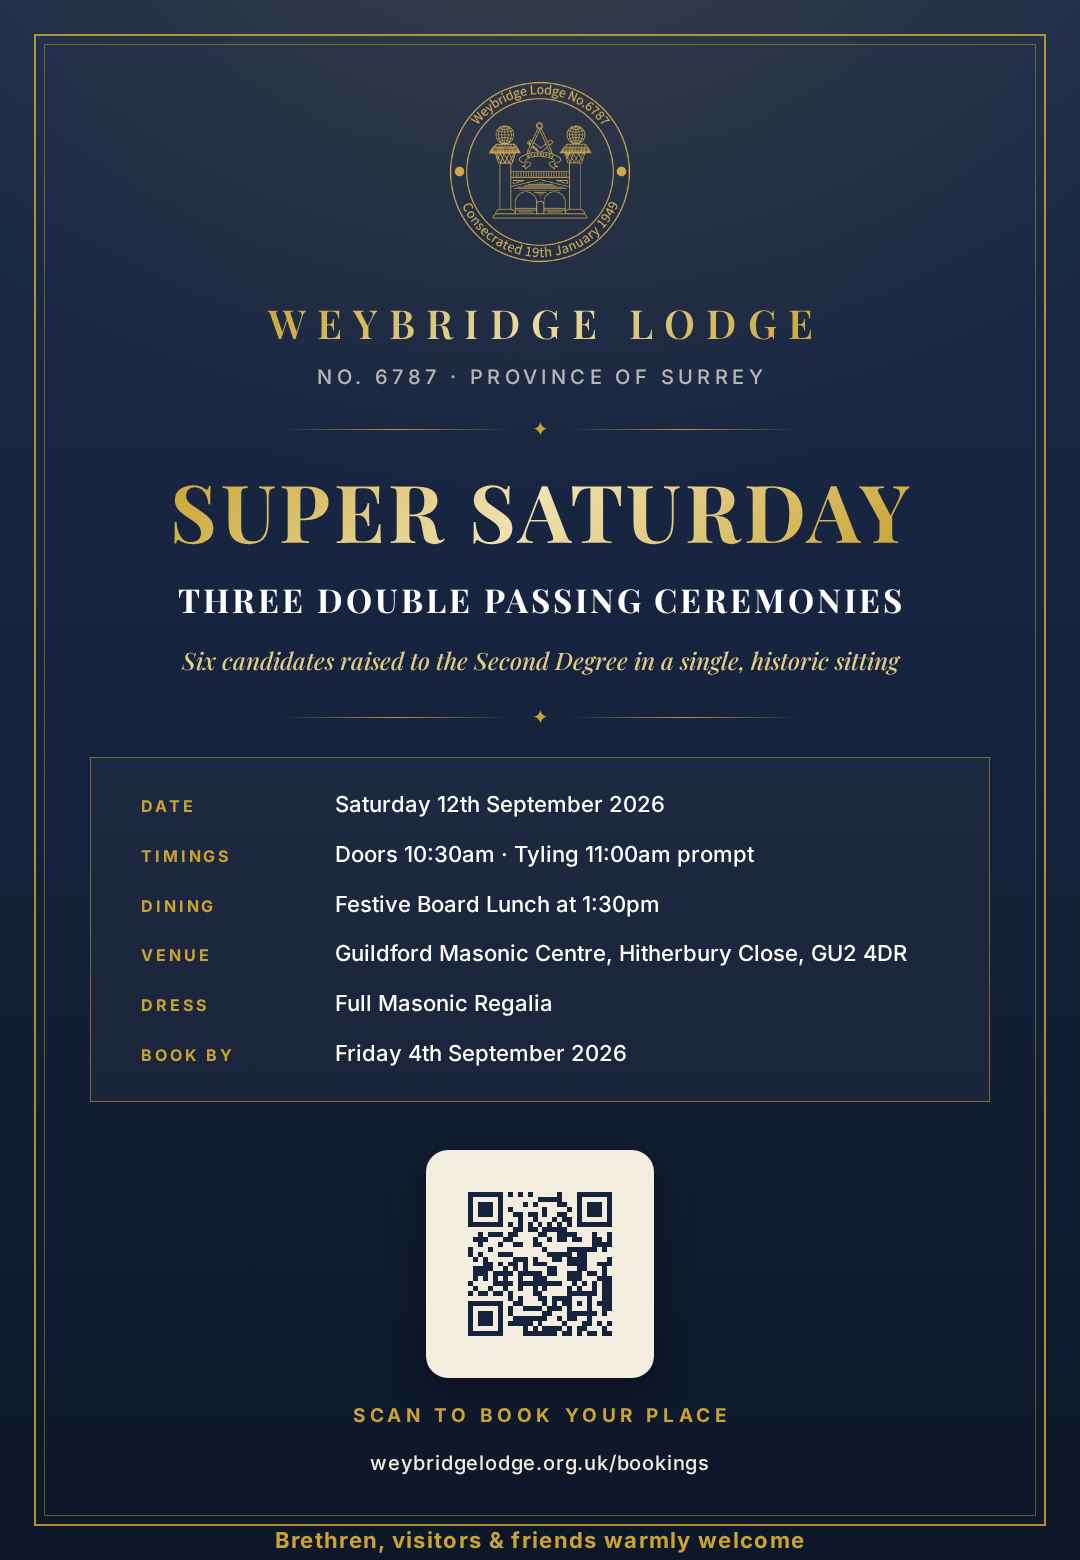
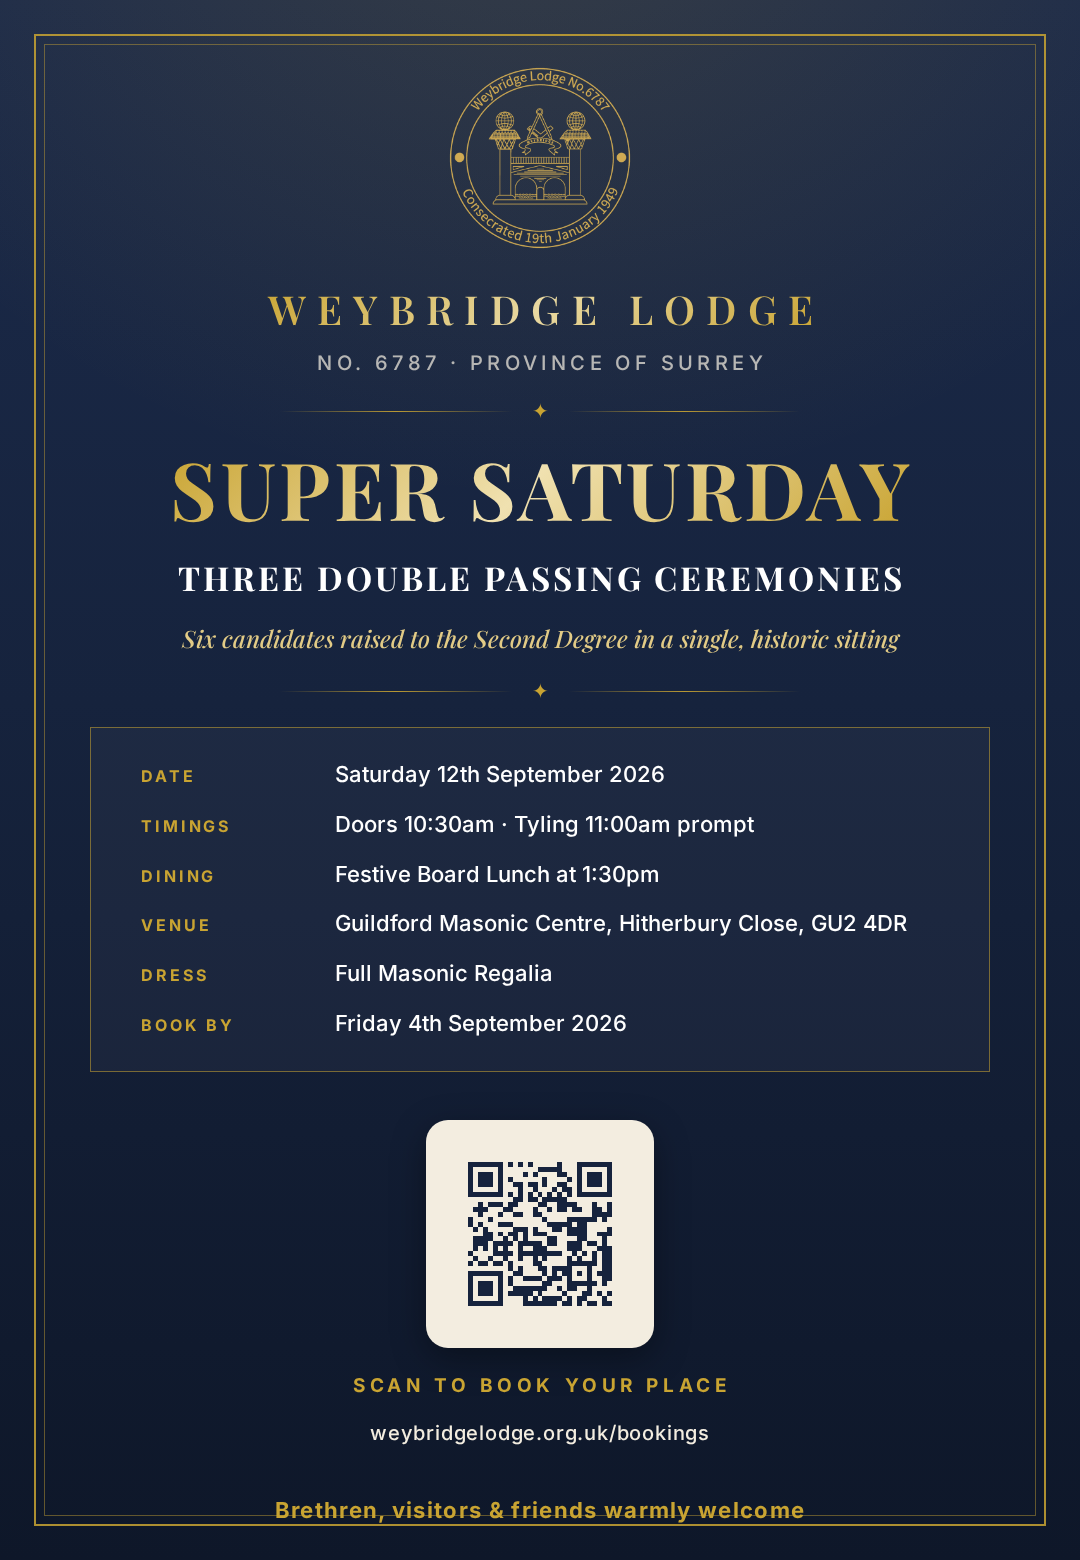
Changes

diff --git a/public/downloads/super-saturday-poster.html b/public/downloads/super-saturday-poster.html
@@ -20,7 +20,7 @@
       linear-gradient(180deg, #1B2A4A 0%, #16233D 45%, #0E1729 100%);
     color:var(--cream); font-family:'Inter',system-ui,sans-serif;
     display:flex; flex-direction:column; align-items:center;
-    padding:74px 90px 62px;
+    padding:60px 90px 54px;
   }
   /* outer gold double-line frame at ~34px margin */
   .frame-outer, .frame-inner { position:absolute; pointer-events:none; }
@@ -40,7 +40,7 @@
     font-weight:500; color:rgba(243,237,224,.72); text-transform:uppercase;
   }
 
-  .divider { display:flex; align-items:center; gap:20px; width:520px; margin:30px 0; }
+  .divider { display:flex; align-items:center; gap:20px; width:520px; margin:26px 0; }
   .dline { flex:1; height:1px; background:linear-gradient(90deg,rgba(201,164,50,0),rgba(201,164,50,.9),rgba(201,164,50,0)); }
   .dmark { color:var(--gold); font-size:20px; line-height:1; }
 
